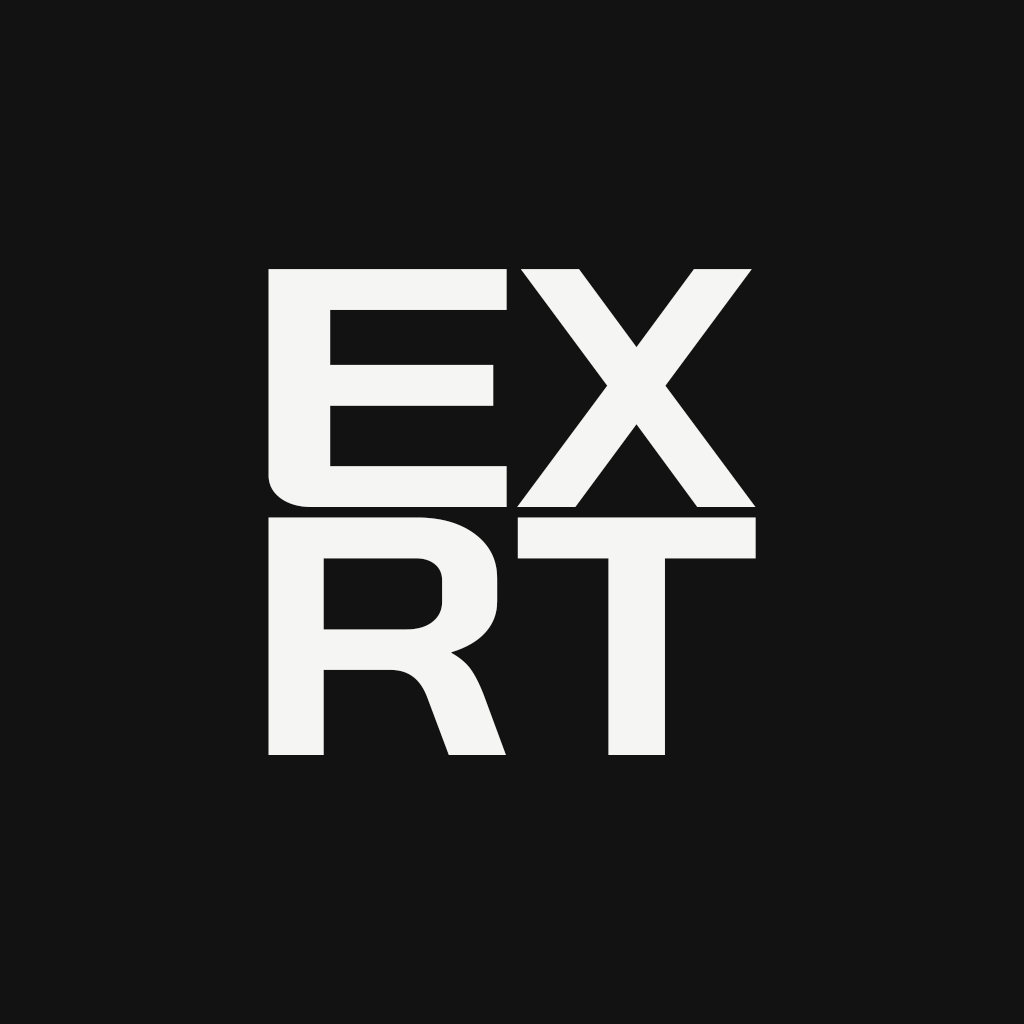
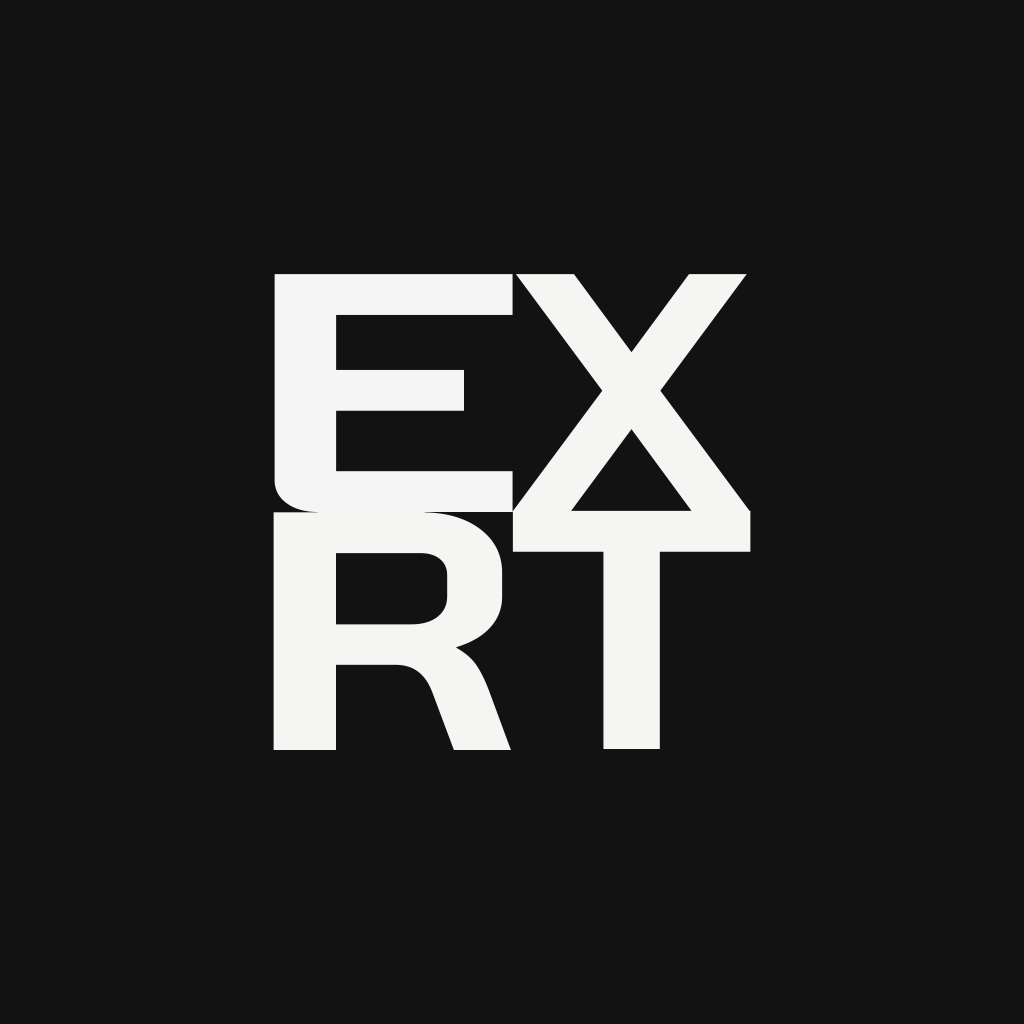
splash screen tests

diff --git a/screens/HomeScreen.tsx b/screens/HomeScreen.tsx
@@ -12,11 +12,12 @@ import { TouchableOpacity } from "react-native-gesture-handler"
 
 type Props = NativeStackScreenProps<RootStackParamList, 'Home'>
 
-const screenWidth = Dimensions.get('screen').width
+const dimentions = Dimensions.get('screen')
 const dateNow: Date = new Date()
 const dayNow = (dateNow.getDay() + 6) % 7
 
 const HomeScreen: React.FC<Props> = ({ navigation }) => {
+  const [isLoaded, setIsLoaded] = useState<boolean>(false)
   const [dayIds, setDayIds] = useState<number[]>([])
   const [activePrograms, setActivePrograms] = useState<any[]>([])
   const [animationTrigger, setAnimationTrigger] = useState<boolean>(false)
@@ -52,22 +53,6 @@ const HomeScreen: React.FC<Props> = ({ navigation }) => {
   }
 
   useEffect(() => {
-    navigation.setOptions({
-      headerRight: () => (
-        <TouchableOpacity
-          onPress={() => {}}
-          className="h-10 w-10 flex justify-center items-end"
-          activeOpacity={0.6}
-        >
-          <Image 
-            className="h-6 w-6" 
-            resizeMode="contain"
-            source={icons['Logo' as keyof typeof icons]} 
-          />
-        </TouchableOpacity>
-      )
-    })
-
     const unsubscribeFocus = navigation.addListener('focus', () => {
       fetchData()
       setAnimationTrigger(prev => !prev)
@@ -79,43 +64,65 @@ const HomeScreen: React.FC<Props> = ({ navigation }) => {
   }, [])
 
   return (
-    <ScreenWrapper>
-      <Progress 
-        dayIds={dayIds} 
-        dayNow={dayNow}
-        screenWidth={screenWidth} 
+    <View className="flex-1 bg-custom-dark relative">
+      <Image
+        className="absolute top-[39.5%] left-[26.75%] w-[46.65%] h-[20.9%]"
+        resizeMode="contain"
+        source={icons['Logo' as keyof typeof icons]}
+        fadeDuration={0}
       />
-      <View className="h-8" />
-      <ActivePrograms 
-        activePrograms={activePrograms}
-        screenWidth={screenWidth}
-      />
-      <View className="h-14" />
-      <AnimatedNavigationButton
-        key={'button1'}
-        trigger={animationTrigger}
-        image={icons.ProgramsIcon}
-        colorName="custom-purple"
-        colorCode="#7D34A7"
-        textLine1="Browse"
-        textLine2="Programs"
-        route="ProgramsList"
-        delay={100}
-      />
-      <View className="h-10" />
-      <AnimatedNavigationButton
-        key={'button2'}
-        trigger={animationTrigger}
-        image={icons.ExercisesIcon}
-        colorName="custom-yellow"
-        colorCode="#F7EA40"
-        textLine1="Browse"
-        textLine2="Exercises"
-        route="ExercisesList"
-        delay={200}
-      />
-      <View className="h-5" />
-    </ScreenWrapper>
+      <View className="w-6 h-6 bg-custom-green" />
+    </View>  
+    // <ScreenWrapper>
+    //   <View className="w-full p-2 flex items-end">
+    //     <TouchableOpacity
+    //       onPress={() => {}}
+    //       className="h-10 w-10 flex justify-center items-end"
+    //       activeOpacity={0.6}
+    //     >
+    //       <Image 
+    //         className="h-6 w-6" 
+    //         resizeMode="contain"
+    //         source={icons['Logo' as keyof typeof icons]} 
+    //       />
+    //     </TouchableOpacity>
+    //   </View>
+    //   <Progress 
+    //     dayIds={dayIds} 
+    //     dayNow={dayNow}
+    //     screenWidth={dimentions.width} 
+    //   />
+    //   <View className="h-8" />
+    //   <ActivePrograms 
+    //     activePrograms={activePrograms}
+    //     screenWidth={dimentions.width}
+    //   />
+    //   <View className="h-14" />
+    //   <AnimatedNavigationButton
+    //     key={'button1'}
+    //     trigger={animationTrigger}
+    //     image={icons.ProgramsIcon}
+    //     colorName="custom-purple"
+    //     colorCode="#7D34A7"
+    //     textLine1="Browse"
+    //     textLine2="Programs"
+    //     route="ProgramsList"
+    //     delay={100}
+    //   />
+    //   <View className="h-10" />
+    //   <AnimatedNavigationButton
+    //     key={'button2'}
+    //     trigger={animationTrigger}
+    //     image={icons.ExercisesIcon}
+    //     colorName="custom-yellow"
+    //     colorCode="#F7EA40"
+    //     textLine1="Browse"
+    //     textLine2="Exercises"
+    //     route="ExercisesList"
+    //     delay={200}
+    //   />
+    //   <View className="h-5" />
+    // </ScreenWrapper>
   )
 }
 

diff --git a/components/home/Progress.tsx b/components/home/Progress.tsx
@@ -15,12 +15,15 @@ const Progress: React.FC<Props> = ({ dayIds, dayNow, screenWidth }) => {
 
 	return (
 		<TouchableOpacity
-			className="px-2 h-[14%] w-full bg-custom-dark"
-			onPress={() => navigation.navigate('Hub', { dayNow: dayNow, screenWidth: screenWidth })}
+			className="px-2 w-full bg-custom-dark"
+			onPress={() => navigation.navigate('Hub', {
+				dayNow: dayNow, 
+				screenWidth: screenWidth 
+			})}
 			activeOpacity={0.6}
 		>
-			<Text className="mb-5 text-custom-white font-BaiJamjuree-BoldItalic">Continue Your Progress</Text>
-			<View className='flex-1 flex-row justify-around gap-1'>
+			<Text className="h-8 mb-1 text-custom-white font-BaiJamjuree-BoldItalic">Continue Your Progress</Text>
+			<View className='h-14 flex-row justify-around gap-1'>
 				{week.map((item, index) => (
 					<View 
 						key={index}

diff --git a/components/home/ActivePrograms.tsx b/components/home/ActivePrograms.tsx
@@ -20,7 +20,7 @@ const ActivePrograms: React.FC<Props> = ({ activePrograms, screenWidth }) => {
 
 	return (
 		<View className='flex-1'>
-			<View className='mb-3 mx-2 flex-row justify-between items-center'>
+			<View className='mb-3 mx-2 h-8 flex-row justify-between items-center'>
 				<Text className="text-custom-white font-BaiJamjuree-BoldItalic">Your Active Programs</Text>
 				<TouchableOpacity 
 					className='w-[20%] h-8 items-end'
@@ -30,7 +30,7 @@ const ActivePrograms: React.FC<Props> = ({ activePrograms, screenWidth }) => {
 				</TouchableOpacity>
 			</View>
 			<ScrollView 
-				className="flex-1 -mx-2"
+				className="-mx-2"
 				horizontal={true}
 				disableIntervalMomentum={true}
 				showsHorizontalScrollIndicator={false}

diff --git a/App.tsx b/App.tsx
@@ -163,9 +163,9 @@ const App: React.FC = () => {
 
   const onLayoutRootView = useCallback(async() => {
     if (isInitialized) {
-      await SplashScreen.hideAsync();
+      setTimeout(() => SplashScreen.hideAsync(), 50)
     }
-  }, [isInitialized]);
+  }, [isInitialized])
 
   return isInitialized ? (
     <GestureHandlerRootView className='flex-1'>
@@ -196,7 +196,7 @@ const App: React.FC = () => {
                 <Stack.Screen
                   name='Home'
                   component={HomeScreen}
-                  options={{title: ''}}
+                  options={{headerShown: false}}
                 />
                 <Stack.Screen
                   name='ProgramsList'
